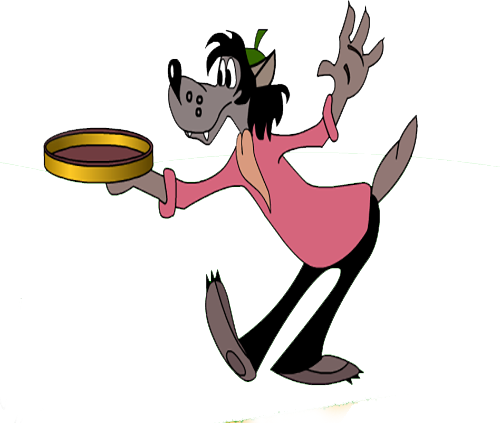
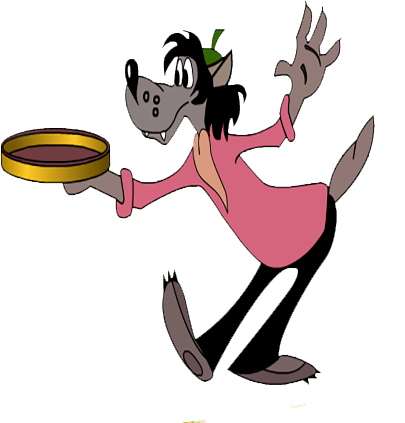
add function to manipulate pictures by pressing Z,A,X,S

Changed region(s): [[0.0, 0.0, 0.9481, 0.922], [0.6519, 0.9527, 0.7407, 0.9835], [0.4444, 0.9835, 0.5037, 1.0]]

diff --git a/JS/application.js b/JS/application.js
@@ -7,8 +7,10 @@ $(document).ready(function(){
   // 3 == bottom right
   var wolfPosition = 0;
 
-  $("#start").on('click', function(){
+  $("#start").on('click', function(Z){
+
     console.log("clecked btn");
+
   });
 
   // listen to keyboard and:
@@ -21,7 +23,30 @@ $(document).ready(function(){
   // - if 'd' is pressed --> console.log 'd was pressed'
   //
   $(document).on("keyup", function(){
-    console.log()
+  var keycode = (event.keyCode ? event.keyCode : event.which);
+    if (keycode == '90'){
+      $('#wolf').attr('src','img/lb.png');
+        console.log('You pressed a "Z" key in keaboard');
+    }
+    else if (keycode == '65'){
+
+      $('#wolf').attr('src','img/lu.png');
+        console.log('You pressed a "A" key in keaboard');
+    }
+    else if (keycode == '88'){
+
+      $('#wolf').attr('src','img/rb.png');
+        console.log('You pressed a "X" key in keaboard');
+    }
+    else if (keycode == '83'){
+
+      $('#wolf').attr('src','img/ru.png');
+        console.log('You pressed a "S" key in keaboard');
+    }
   });
+
+
+
+
 
 });
